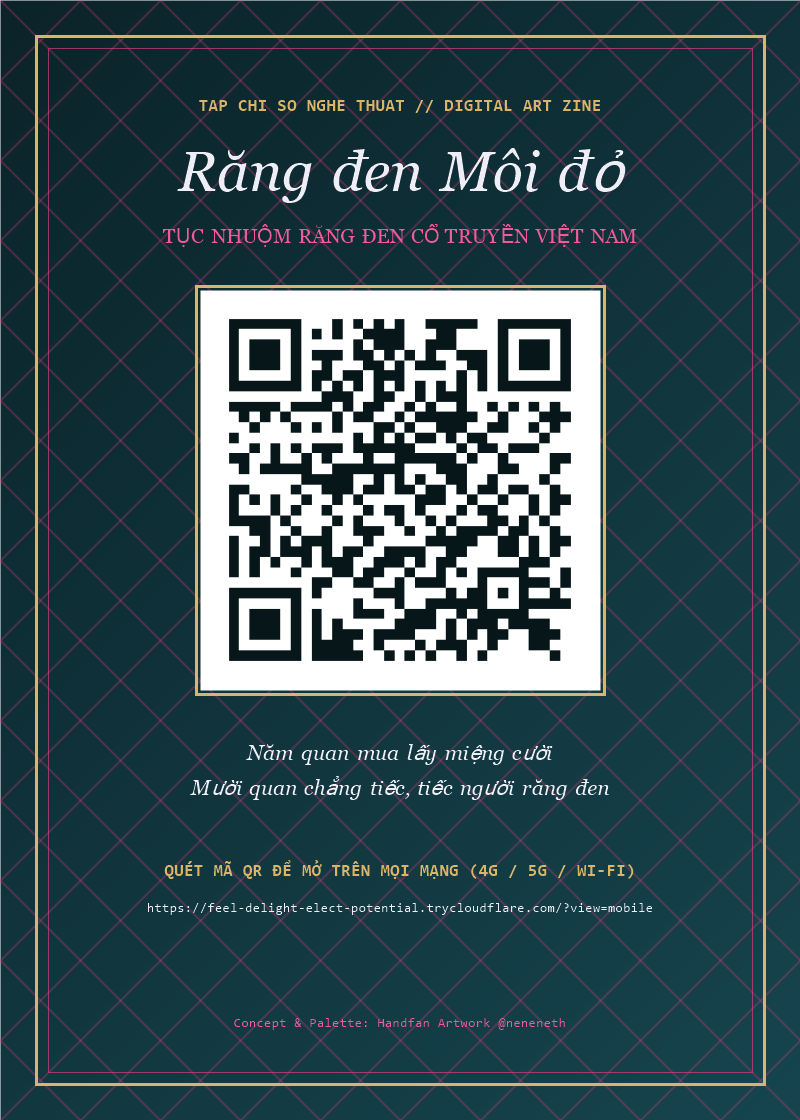
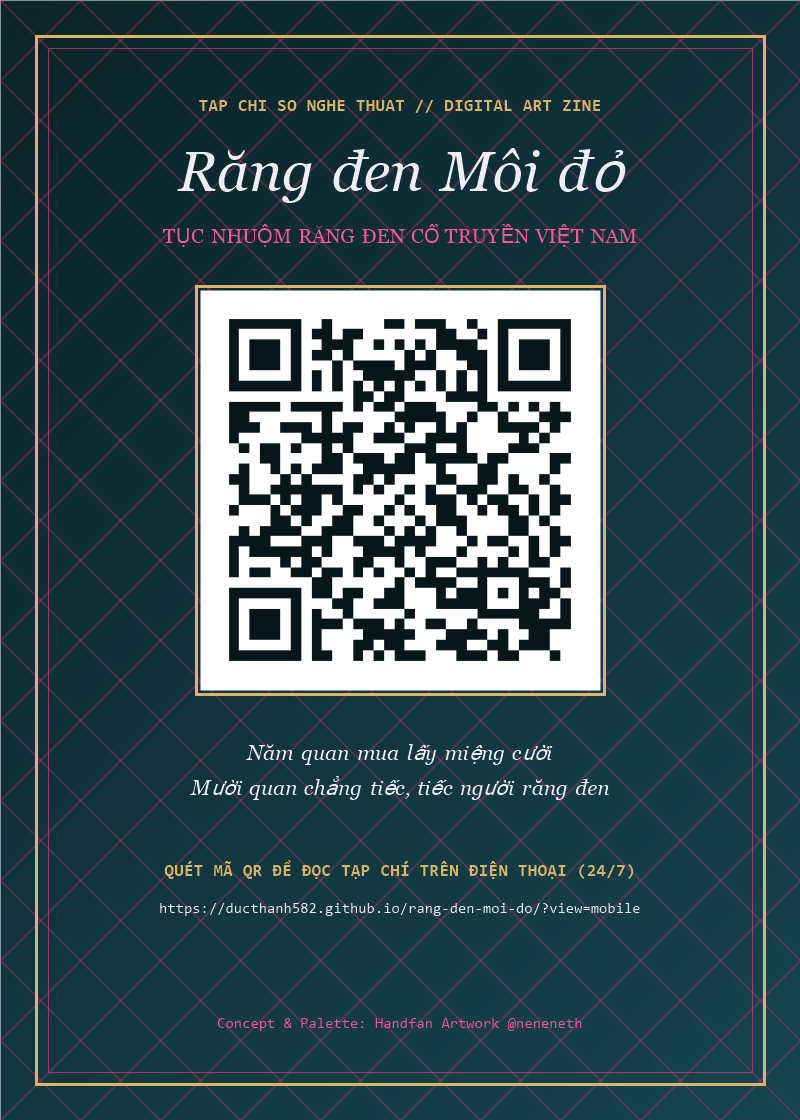
Configure permanent GitHub Pages URL and README for team collaboration

diff --git a/index.html b/index.html
@@ -518,7 +518,7 @@
             </p>
 
             <div class="url-input-group">
-              <input type="text" id="qr-url-input" class="url-input" value="https://feel-delight-elect-potential.trycloudflare.com/?view=mobile" aria-label="Đường dẫn tạo mã QR" />
+              <input type="text" id="qr-url-input" class="url-input" value="https://ducthanh582.github.io/rang-den-moi-do/?view=mobile" aria-label="Đường dẫn tạo mã QR" />
               <button type="button" class="action-btn-primary" id="btn-update-qr">Cập nhật QR</button>
             </div>
 
@@ -586,12 +586,12 @@
             ĐƯỜNG DẪN ĐÍCH CỦA MÃ QR:
           </label>
           <div class="url-input-group" style="margin-top: 0; margin-bottom: 1rem;">
-            <input type="text" id="qr-modal-url-input" class="url-input" value="https://feel-delight-elect-potential.trycloudflare.com/?view=mobile" />
+            <input type="text" id="qr-modal-url-input" class="url-input" value="https://ducthanh582.github.io/rang-den-moi-do/?view=mobile" />
             <button type="button" class="action-btn-primary" id="btn-modal-update-qr">Đổi</button>
           </div>
 
           <p style="font-size: 0.8rem; color: var(--silver-mid); margin-bottom: 1rem;">
-            💡 <strong>Mẹo trình chiếu:</strong> Nếu điện thoại và máy tính kết nối cùng mạng Wi-Fi, quét mã mặc định (<code>https://feel-delight-elect-potential.trycloudflare.com/?view=mobile</code>) sẽ mở trực tiếp trang web trên điện thoại.
+            💡 <strong>Mẹo trình chiếu:</strong> Nếu điện thoại và máy tính kết nối cùng mạng Wi-Fi, quét mã mặc định (<code>https://ducthanh582.github.io/rang-den-moi-do/?view=mobile</code>) sẽ mở trực tiếp trang web trên điện thoại.
           </p>
 
           <div style="display: flex; gap: 0.65rem; flex-wrap: wrap;">

diff --git a/app.js b/app.js
@@ -5,20 +5,10 @@
 (function () {
   'use strict';
 
-  const PUBLIC_TUNNEL_URL = 'https://feel-delight-elect-potential.trycloudflare.com';
+  const PUBLIC_GITHUB_PAGES_URL = 'https://ducthanh582.github.io/rang-den-moi-do';
 
   function getDefaultMobileQrUrl() {
-    const loc = window.location;
-    if (
-      loc.protocol === 'file:' ||
-      loc.hostname === 'localhost' ||
-      loc.hostname === '127.0.0.1' ||
-      loc.hostname.startsWith('192.168.')
-    ) {
-      return `${PUBLIC_TUNNEL_URL}/?view=mobile`;
-    }
-    const base = loc.origin + loc.pathname;
-    return `${base}?view=mobile`;
+    return `${PUBLIC_GITHUB_PAGES_URL}/?view=mobile`;
   }
 
   let currentQrUrl = getDefaultMobileQrUrl();

diff --git a/README.md b/README.md
@@ -1,0 +1,28 @@
+# Răng Đen Môi Đỏ — Tạp Chí Số Nghệ Thuật (Digital Art Zine)
+
+Ấn phẩm web thông tin giới thiệu **Tục Nhuộm Răng Đen Cổ Truyền Việt Nam**, thiết kế theo phong cách tạp chí nghệ thuật đương đại (*Neo-Traditional Editorial Art Zine*), lấy cảm hứng và bảng màu từ tác phẩm Handfan **“Răng đen Môi đỏ”** (`@neneneth`).
+
+## 🌐 Đường dẫn truy cập trực tuyến (Live 24/7)
+- **Giao diện Web (Tạp chí Desktop):** [https://ducthanh582.github.io/rang-den-moi-do/](https://ducthanh582.github.io/rang-den-moi-do/)
+- **Giao diện Điện thoại (Khi quét Mã QR):** [https://ducthanh582.github.io/rang-den-moi-do/?view=mobile](https://ducthanh582.github.io/rang-den-moi-do/?view=mobile)
+
+![Thẻ QR Răng Đen Môi Đỏ](assets/qr-poster-rang-den-moi-do.png)
+
+## 🤝 Hướng dẫn cùng chỉnh sửa trên Antigravity
+1. Clone dự án về máy:
+   ```bash
+   git clone https://github.com/ducthanh582/rang-den-moi-do.git
+   ```
+2. Mở thư mục `rang-den-moi-do` trong **Antigravity IDE** hoặc **Antigravity 2.0**.
+   - Dự án đã tích hợp sẵn quy chuẩn AI tại `.agents/rules/project-style.md` để giữ đồng bộ bảng màu và bố cục tạp chí cho mọi thành viên.
+3. Chạy thử dưới máy cá nhân:
+   ```bash
+   python -m http.server 5588
+   ```
+   Sau đó mở `http://localhost:5588`.
+4. Sau khi chỉnh sửa xong, lưu và đẩy thay đổi lên GitHub:
+   ```bash
+   git add .
+   git commit -m "Cap nhat noi dung"
+   git push
+   ```
